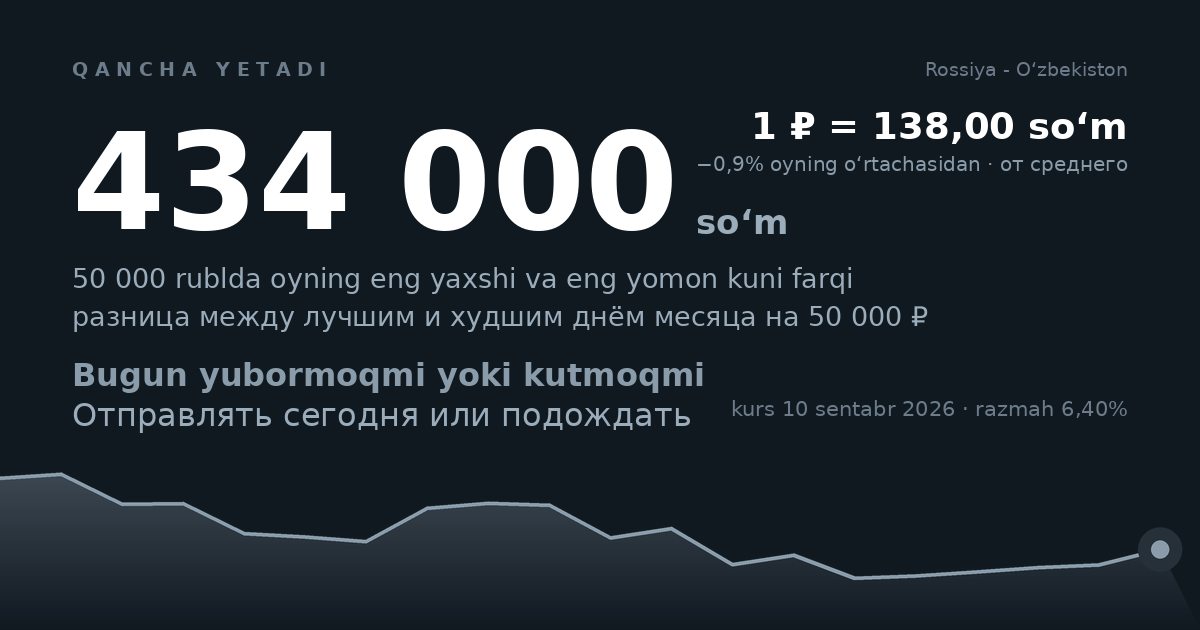
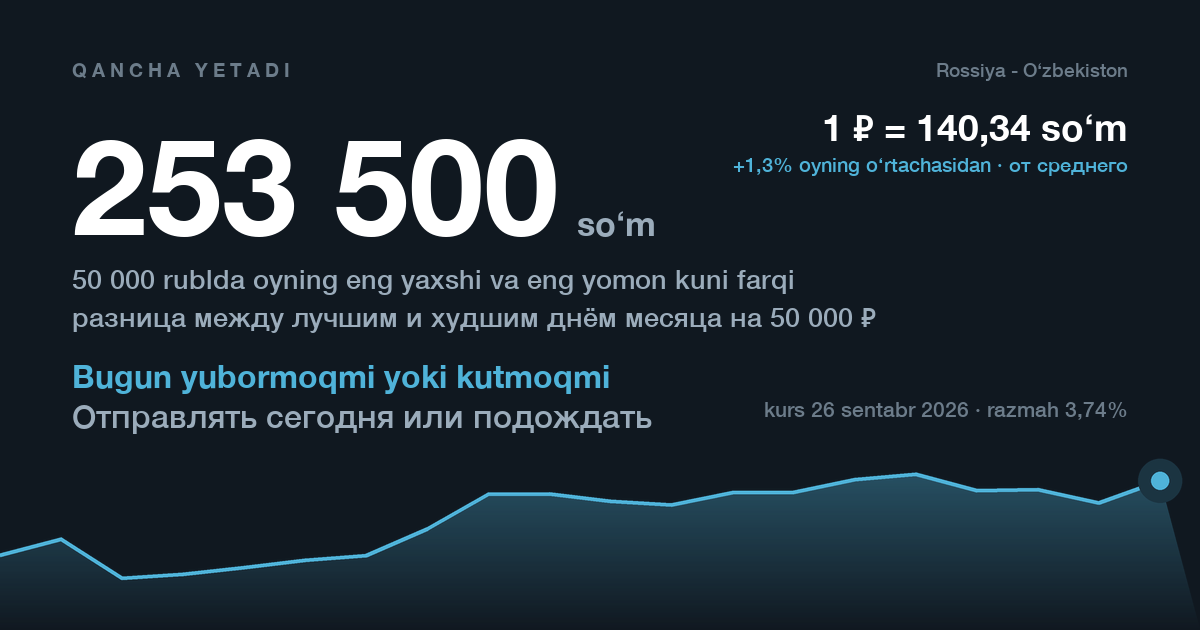
данные: пересборка со свежим курсом ЦБ + устойчивый тест значка [skip render]
Плановая пересборка на GitHub Actions делает коммиты, но данные не
обновляет — Actions не достукивается до cbu.uz. Запас и страница под
поиск застряли на 10 сентября (236 ч), proverit_zhivoe справедливо
кричал «у людей не работает». Пересобрано с машины, где cbu.uz тянется:
курс, страница под поиск, sitemap, обложка, запас — всё на сегодня.

test-app.js: значок отклонения проверялся как «всегда минус» — зелёным
он был лишь в дни, когда курс случайно ниже среднего, и краснел на
каждом хорошем дне. Теперь знак значка сверяется со знаком отклонения,
посчитанного из тех же данных: находит настоящую поломку (потерю знака),
но не зависит от погоды дня. Именно он мешал залить свежие данные.

Корень (Actions не тянет cbu.uz) — отдельной задачей; здесь чиним симптом.

diff --git a/kurs.html b/kurs.html
@@ -34,7 +34,7 @@
 <meta property="og:description" content="Отправлять сегодня или подождать. Курс ЦБ Узбекистана, курс переводов и разница в сумах на вашей сумме.">
 <meta property="og:type" content="website">
 <meta property="og:url" content="https://m1llerzz.github.io/KURS-/kurs.html">
-<meta property="og:image" content="https://m1llerzz.github.io/KURS-/oblozhka.png?v=20260910">
+<meta property="og:image" content="https://m1llerzz.github.io/KURS-/oblozhka.png?v=20260926">
 <meta property="og:image:width" content="1200">
 <meta property="og:image:height" content="630">
 <meta name="twitter:card" content="summary_large_image">
@@ -119,9 +119,9 @@
 </p>
 
 <div class="kurs">
-  <div class="big"><span data-zapas="kurs">138,00</span> сум за 1 ₽</div>
+  <div class="big"><span data-zapas="kurs">140,34</span> сум за 1 ₽</div>
   <div class="podpis">
-    Курс ЦБ Узбекистана на <span data-zapas="data_ru">10 сентября 2026</span>.
+    Курс ЦБ Узбекистана на <span data-zapas="data_ru">26 сентября 2026</span>.
     <span id="kurs-verdikt">Заметно ниже среднего за месяц.</span>
   </div>
 </div>
@@ -149,7 +149,7 @@
        публикацию, и круглое «тридцать» рядом с настоящими датами читается
        как нестыковка. Даты подставляет obnovit_zapas.py. -->
   Это главное, что стоит знать про переводы в Узбекистан, и об этом молчат
-  все. Замер по курсам ЦБ <span data-zapas="period_ru">с 12 августа по 10 сентября 2026</span>, на переводе 50 000 ₽:
+  все. Замер по курсам ЦБ <span data-zapas="period_ru">с 28 августа по 26 сентября 2026</span>, на переводе 50 000 ₽:
 </p>
 
 <div class="obertka">
@@ -159,21 +159,21 @@
   </thead>
   <tbody>
     <tr><td>День отправки</td>
-        <td class="num"><span data-zapas="razmah_percent">6,40</span>%</td>
-        <td class="num"><span data-zapas="razmah_sum">434 000</span></td></tr>
+        <td class="num"><span data-zapas="razmah_percent">3,74</span>%</td>
+        <td class="num"><span data-zapas="razmah_sum">253 500</span></td></tr>
     <tr><td>Сервис перевода</td>
-        <td class="num"><span data-zapas="nacenka_percent">3,62</span>%</td>
-        <td class="num"><span data-zapas="nacenka_sum">250 000</span></td></tr>
+        <td class="num"><span data-zapas="nacenka_percent">3,09</span>%</td>
+        <td class="num"><span data-zapas="nacenka_sum">217 000</span></td></tr>
     <tr><td>Банк получателя</td><td class="num">0,84%</td><td class="num">55 000</td></tr>
   </tbody>
 </table>
 </div>
 
 <p>
-  За этот месяц курс рубля прошёл путь от <span data-zapas="kurs_max">144,29</span>
+  За этот месяц курс рубля прошёл путь от <span data-zapas="kurs_max">140,68</span>
   до <span data-zapas="kurs_min">135,61</span> сума. Человек, отправивший в
   худший день месяца вместо лучшего, недосчитался
-  <span data-zapas="razmah_sum">434 000</span> сум на переводе 50 000 ₽.
+  <span data-zapas="razmah_sum">253 500</span> сум на переводе 50 000 ₽.
   Комиссия рядом с этим — мелочь.
 </p>
 
@@ -188,11 +188,11 @@
 <p>
   Официальный курс ЦБ — это не тот курс, по которому идёт перевод. Сервисы
   считают по своему, и разница нигде не написана отдельной строкой.
-  На <span data-zapas="data_ru">10 сентября 2026</span> года: официальный
-  <span data-zapas="kurs">138,00</span>, курс переводов
-  <span data-zapas="kurs_servisa">133,00</span>. Разница
-  <span data-zapas="nacenka_percent">3,62</span>% — это
-  <span data-zapas="nacenka_sum">250 000</span> сум на переводе 50 000 ₽.
+  На <span data-zapas="data_ru">26 сентября 2026</span> года: официальный
+  <span data-zapas="kurs">140,34</span>, курс переводов
+  <span data-zapas="kurs_servisa">136,00</span>. Разница
+  <span data-zapas="nacenka_percent">3,09</span>% — это
+  <span data-zapas="nacenka_sum">217 000</span> сум на переводе 50 000 ₽.
 </p>
 
 <p>
@@ -218,16 +218,16 @@
 
 <p class="vopros">Какой сегодня курс рубля к суму?</p>
 <p class="otvet">
-  На <span data-zapas="data_ru">10 сентября 2026</span> официальный курс
-  ЦБ Узбекистана — <span data-zapas="kurs">138,00</span> сума за
+  На <span data-zapas="data_ru">26 сентября 2026</span> официальный курс
+  ЦБ Узбекистана — <span data-zapas="kurs">140,34</span> сума за
   1 рубль. Перевод идёт по курсу около
-  <span data-zapas="kurs_servisa">133,00</span> сума за рубль.
+  <span data-zapas="kurs_servisa">136,00</span> сума за рубль.
 </p>
 
 <p class="vopros">Сколько дойдёт до карты при переводе 50 000 рублей?</p>
 <p class="otvet">
-  По курсу переводов <span data-zapas="kurs_servisa">133,00</span> —
-  около <span data-zapas="itog_50k">6 650 000</span> сумов, если сервис не
+  По курсу переводов <span data-zapas="kurs_servisa">136,00</span> —
+  около <span data-zapas="itog_50k">6 800 000</span> сумов, если сервис не
   берёт комиссию сверху. Комиссии сервисы не публикуют, поэтому это
   верхняя граница. Точная сумма зависит от дня отправки и от банка,
   который зачисляет деньги на карту.
@@ -238,7 +238,7 @@
   В коридоре работают шестеро, курс открыто публикуют двое — сравнить
   стоит оба. Отдельно от выбора сервиса стоит день отправки: за месяц
   курс ЦБ менялся на
-  <span data-zapas="razmah_percent">6,40</span>%.
+  <span data-zapas="razmah_percent">3,74</span>%.
 </p>
 
 <p class="vopros">Стоит ли подождать с переводом?</p>
@@ -268,9 +268,9 @@
 </p>
 
 <div class="kurs">
-  <div class="big"><span data-zapas="kurs">138,00</span> soʻm — 1 ₽</div>
+  <div class="big"><span data-zapas="kurs">140,34</span> soʻm — 1 ₽</div>
   <div class="podpis">
-    Markaziy bank kursi, <span data-zapas="data_uz">10 sentabr 2026</span>.
+    Markaziy bank kursi, <span data-zapas="data_uz">26 sentabr 2026</span>.
   </div>
 </div>
 
@@ -283,19 +283,19 @@
 <h3>Eng koʻp pulni yuborish KUNI hal qiladi</h3>
 
 <p>
-  Oʻlchov (<span data-zapas="period_uz">12 avgust — 10 sentabr 2026</span>), 50 000 rubl uchun: yuborish kuni —
-  <span data-zapas="razmah_percent">6,40</span>% yoki
-  <span data-zapas="razmah_sum">434 000</span> soʻm; servis tanlash —
-  <span data-zapas="nacenka_percent">3,62</span>% yoki
-  <span data-zapas="nacenka_sum">250 000</span> soʻm; qabul qiluvchi
+  Oʻlchov (<span data-zapas="period_uz">28 avgust — 26 sentabr 2026</span>), 50 000 rubl uchun: yuborish kuni —
+  <span data-zapas="razmah_percent">3,74</span>% yoki
+  <span data-zapas="razmah_sum">253 500</span> soʻm; servis tanlash —
+  <span data-zapas="nacenka_percent">3,09</span>% yoki
+  <span data-zapas="nacenka_sum">217 000</span> soʻm; qabul qiluvchi
   bank — 0,84%.
 </p>
 
 <p>
-  Bir oyda rubl kursi <span data-zapas="kurs_max">144,29</span> dan
+  Bir oyda rubl kursi <span data-zapas="kurs_max">140,68</span> dan
   <span data-zapas="kurs_min">135,61</span> gacha tushdi. Eng yomon kunda
   yuborgan odam eng yaxshi kunga nisbatan
-  <span data-zapas="razmah_sum">434 000</span> soʻm kam oldi.
+  <span data-zapas="razmah_sum">253 500</span> soʻm kam oldi.
   Komissiya bunga nisbatan mayda gap.
 </p>
 
@@ -303,11 +303,11 @@
 
 <p>
   Rasmiy kurs — bu oʻtkazma kursi emas.
-  <span data-zapas="data_uz">10 sentabr 2026</span>: rasmiy
-  <span data-zapas="kurs">138,00</span>, oʻtkazma
-  <span data-zapas="kurs_servisa">133,00</span>. Farqi
-  <span data-zapas="nacenka_percent">3,62</span>% — 50 000 rublda
-  <span data-zapas="nacenka_sum">250 000</span> soʻm. Bu komissiya
+  <span data-zapas="data_uz">26 sentabr 2026</span>: rasmiy
+  <span data-zapas="kurs">140,34</span>, oʻtkazma
+  <span data-zapas="kurs_servisa">136,00</span>. Farqi
+  <span data-zapas="nacenka_percent">3,09</span>% — 50 000 rublda
+  <span data-zapas="nacenka_sum">217 000</span> soʻm. Bu komissiya
   emas, bu kurs, va u hech qayerda alohida yozilmagan.
 </p>
 

diff --git a/data.js b/data.js
@@ -58,14 +58,14 @@ window.SERVICES = [
     ],
     "fee_fixed": 0,
     "fee_percent": 0,
-    "rate_rub_uzs": 133.0,
+    "rate_rub_uzs": 136.0,
     "limit_per_operation": 100000,
     "delivery_minutes": 60,
     "incoming_fee": 0,
-    "checked_at": "2026-09-10T17:56:13+00:00",
+    "checked_at": "2026-09-26T05:49:42+00:00",
     "verified_by_receipt": false,
     "fee_unknown": false,
-    "nacenka_percent": 3.62,
+    "nacenka_percent": 3.09,
     "url": "https://yubor.ru/",
     "limit_min": 9000,
     "istochnik_uslovij": "yubor.ru, 16.08.2026"
@@ -79,14 +79,14 @@ window.SERVICES = [
     ],
     "fee_fixed": 29,
     "fee_percent": 0,
-    "rate_rub_uzs": 133.0,
+    "rate_rub_uzs": 135.0,
     "limit_per_operation": 200000,
     "delivery_minutes": 60,
     "incoming_fee": 0,
-    "checked_at": "2026-09-10T17:56:13+00:00",
+    "checked_at": "2026-09-26T05:49:42+00:00",
     "verified_by_receipt": false,
     "fee_unknown": false,
-    "nacenka_percent": 3.62,
+    "nacenka_percent": 3.81,
     "url": "https://avosend.com/",
     "limit_v_sutki": 380000,
     "limit_v_mesyac": 1500000,
@@ -112,7 +112,7 @@ window.BANKS = [];
  * Флаг zapas заставляет приложение честно предупредить: без свежего
  * курса весь расчёт становится ориентировочным.
  */
-window.KURSY_ZAPAS = {"usd_uzs": 11797.92, "rub_uzs": 138.0, "date": "2026-09-10", "zapas": true};
+window.KURSY_ZAPAS = {"usd_uzs": 11825.4, "rub_uzs": 140.34, "date": "2026-09-26", "zapas": true};
 
 /**
  * Запасная история курса рубля за 30 дней (курсы ЦБ, замер 15.08.2026).
@@ -120,14 +120,14 @@ window.KURSY_ZAPAS = {"usd_uzs": 11797.92, "rub_uzs": 138.0, "date": "2026-09-10
  * главная ценность приложения, и терять его при сбое сети нельзя.
  */
 window.HISTORY_ZAPAS = [
-  { date: '2026-08-12', rub_uzs: 143.93 }, { date: '2026-08-13', rub_uzs: 144.29 },
-  { date: '2026-08-14', rub_uzs: 141.76 }, { date: '2026-08-17', rub_uzs: 141.83 },
-  { date: '2026-08-18', rub_uzs: 139.32 }, { date: '2026-08-19', rub_uzs: 139.05 },
-  { date: '2026-08-20', rub_uzs: 138.67 }, { date: '2026-08-21', rub_uzs: 141.44 },
-  { date: '2026-08-24', rub_uzs: 141.86 }, { date: '2026-08-25', rub_uzs: 141.69 },
-  { date: '2026-08-26', rub_uzs: 138.96 }, { date: '2026-08-27', rub_uzs: 139.74 },
   { date: '2026-08-28', rub_uzs: 136.73 }, { date: '2026-09-02', rub_uzs: 137.51 },
   { date: '2026-09-03', rub_uzs: 135.61 }, { date: '2026-09-04', rub_uzs: 135.8 },
   { date: '2026-09-07', rub_uzs: 136.13 }, { date: '2026-09-08', rub_uzs: 136.48 },
   { date: '2026-09-09', rub_uzs: 136.71 }, { date: '2026-09-10', rub_uzs: 138.0 },
+  { date: '2026-09-11', rub_uzs: 139.7 }, { date: '2026-09-14', rub_uzs: 139.71 },
+  { date: '2026-09-15', rub_uzs: 139.35 }, { date: '2026-09-16', rub_uzs: 139.17 },
+  { date: '2026-09-17', rub_uzs: 139.77 }, { date: '2026-09-18', rub_uzs: 139.79 },
+  { date: '2026-09-19', rub_uzs: 140.42 }, { date: '2026-09-22', rub_uzs: 140.68 },
+  { date: '2026-09-23', rub_uzs: 139.87 }, { date: '2026-09-24', rub_uzs: 139.93 },
+  { date: '2026-09-25', rub_uzs: 139.27 }, { date: '2026-09-26', rub_uzs: 140.34 },
 ];

diff --git a/test-app.js b/test-app.js
@@ -562,8 +562,19 @@ function dozhdatsya() {
   proverka('значок отклонения показан', /%/.test(tekst(w, 'vBadge')), tekst(w, 'vBadge'));
   proverka('у отклонения есть знак',
     /^[+−]/.test(tekst(w, 'vBadge')), tekst(w, 'vBadge') + ' — без знака читается в любую сторону');
-  proverka('значок при плохом курсе показывает минус',
-    tekst(w, 'vBadge').charAt(0) === '−', tekst(w, 'vBadge'));
+  /* Знак значка обязан совпадать со знаком отклонения, а не быть всегда
+     минусом. Раньше здесь стояло «всегда −»: проверка была зелёной ровно
+     в те дни, когда курс случайно оказывался ниже среднего, и краснела на
+     каждом хорошем дне — ловя не дефект, а сегодняшнюю погоду. Считаем
+     отклонение из тех же данных, что видит приложение, и сверяем знак:
+     так проверка находит настоящую поломку — потерю знака в значке — и не
+     зависит от того, какой курс выпал на день прогона. */
+  const oczenkaZnaka = w.CALC.sovet(w.HISTORY_ZAPAS);
+  const znakOtkl = oczenkaZnaka && oczenkaZnaka.otklonenie_percent < 0 ? '−' : '+';
+  proverka('знак значка совпадает со знаком отклонения',
+    tekst(w, 'vBadge').charAt(0) === znakOtkl,
+    tekst(w, 'vBadge') + ' — отклонение ' +
+      (oczenkaZnaka ? oczenkaZnaka.otklonenie_percent : '?'));
 
   proverka('подписана нижняя граница месяца', /1\d\d[.,]\d\d/.test(tekst(w, 'vOsL')), tekst(w, 'vOsL'));
   proverka('подписана верхняя граница месяца', /1\d\d[.,]\d\d/.test(tekst(w, 'vOsR')), tekst(w, 'vOsR'));

diff --git a/index.html b/index.html
@@ -17,7 +17,7 @@
      единственный бесплатный источник роста, который у нас есть. Карточка
      без картинки выглядит в чате бледной строкой, и её пролистывают.
      Число на обложке живое: пересобирается `bot/sobrat_oblozhku.py`. -->
-<meta property="og:image" content="https://m1llerzz.github.io/KURS-/oblozhka.png?v=20260910">
+<meta property="og:image" content="https://m1llerzz.github.io/KURS-/oblozhka.png?v=20260926">
 <meta property="og:image:width" content="1200">
 <meta property="og:image:height" content="630">
 <meta name="twitter:card" content="summary_large_image">
@@ -816,9 +816,9 @@
      ?v= обязателен: Telegram держит файлы мини-аппа в кеше по нескольку
      часов, и без смены адреса человек продолжает видеть старую версию.
      Правило: поменял js — увеличил число здесь, иначе правка не доедет. -->
-<script src="i18n.js?v=99"></script>
-<script src="data.js?v=99"></script>
-<script src="calc.js?v=99"></script>
-<script src="app.js?v=99"></script>
+<script src="i18n.js?v=100"></script>
+<script src="data.js?v=100"></script>
+<script src="calc.js?v=100"></script>
+<script src="app.js?v=100"></script>
 </body>
 </html>
